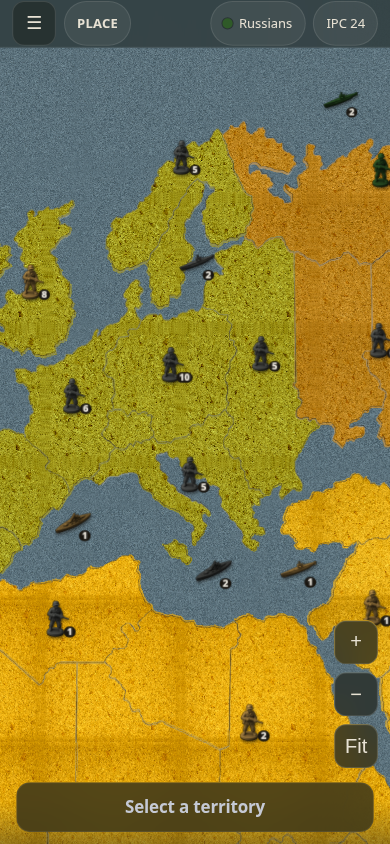
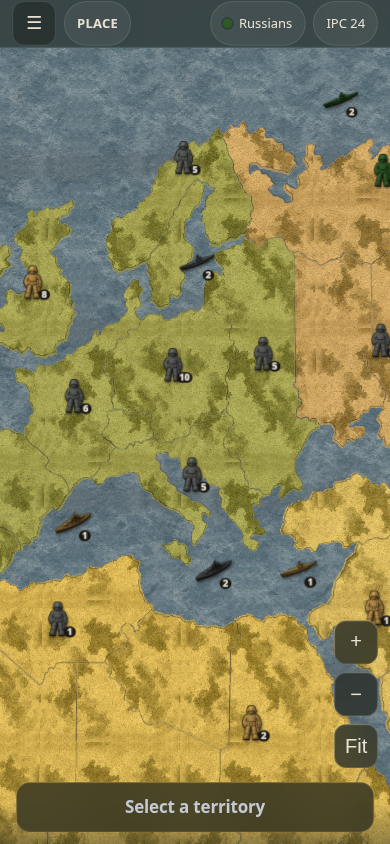
V2.81.51-three-polish.12: qa-p12 stills after Arc tiles
390 mid/near/HUD from the Vercel ?three=1 preview with Arc
parchment, printed blue-grey ocean, and toy-plastic units.

diff --git a/assets/three/units/README.md b/assets/three/units/README.md
@@ -9,5 +9,5 @@ Kill cream discs / Lucide stamps / number-coins.
 | `units-land-plastic.png` | 4×2 | INF, TNK, ART, FTR / BMB, AA, FAC |
 | `units-naval-plastic.png` | 2×2 | BB, CV / SS, TR |
 
-Regenerate: `python3 tools/bake-three-gen-art.py` (needs gen sources).
-Ref: `briefs/2026-09-17-three-art-gap/refs/aa-plastic-units.png`.
+Regenerate: `python3 tools/bake-arc-target-look.py`
+SoT: `briefs/2026-09-17-three-art-gap/refs/arc-units-molded-atlas.png`.
